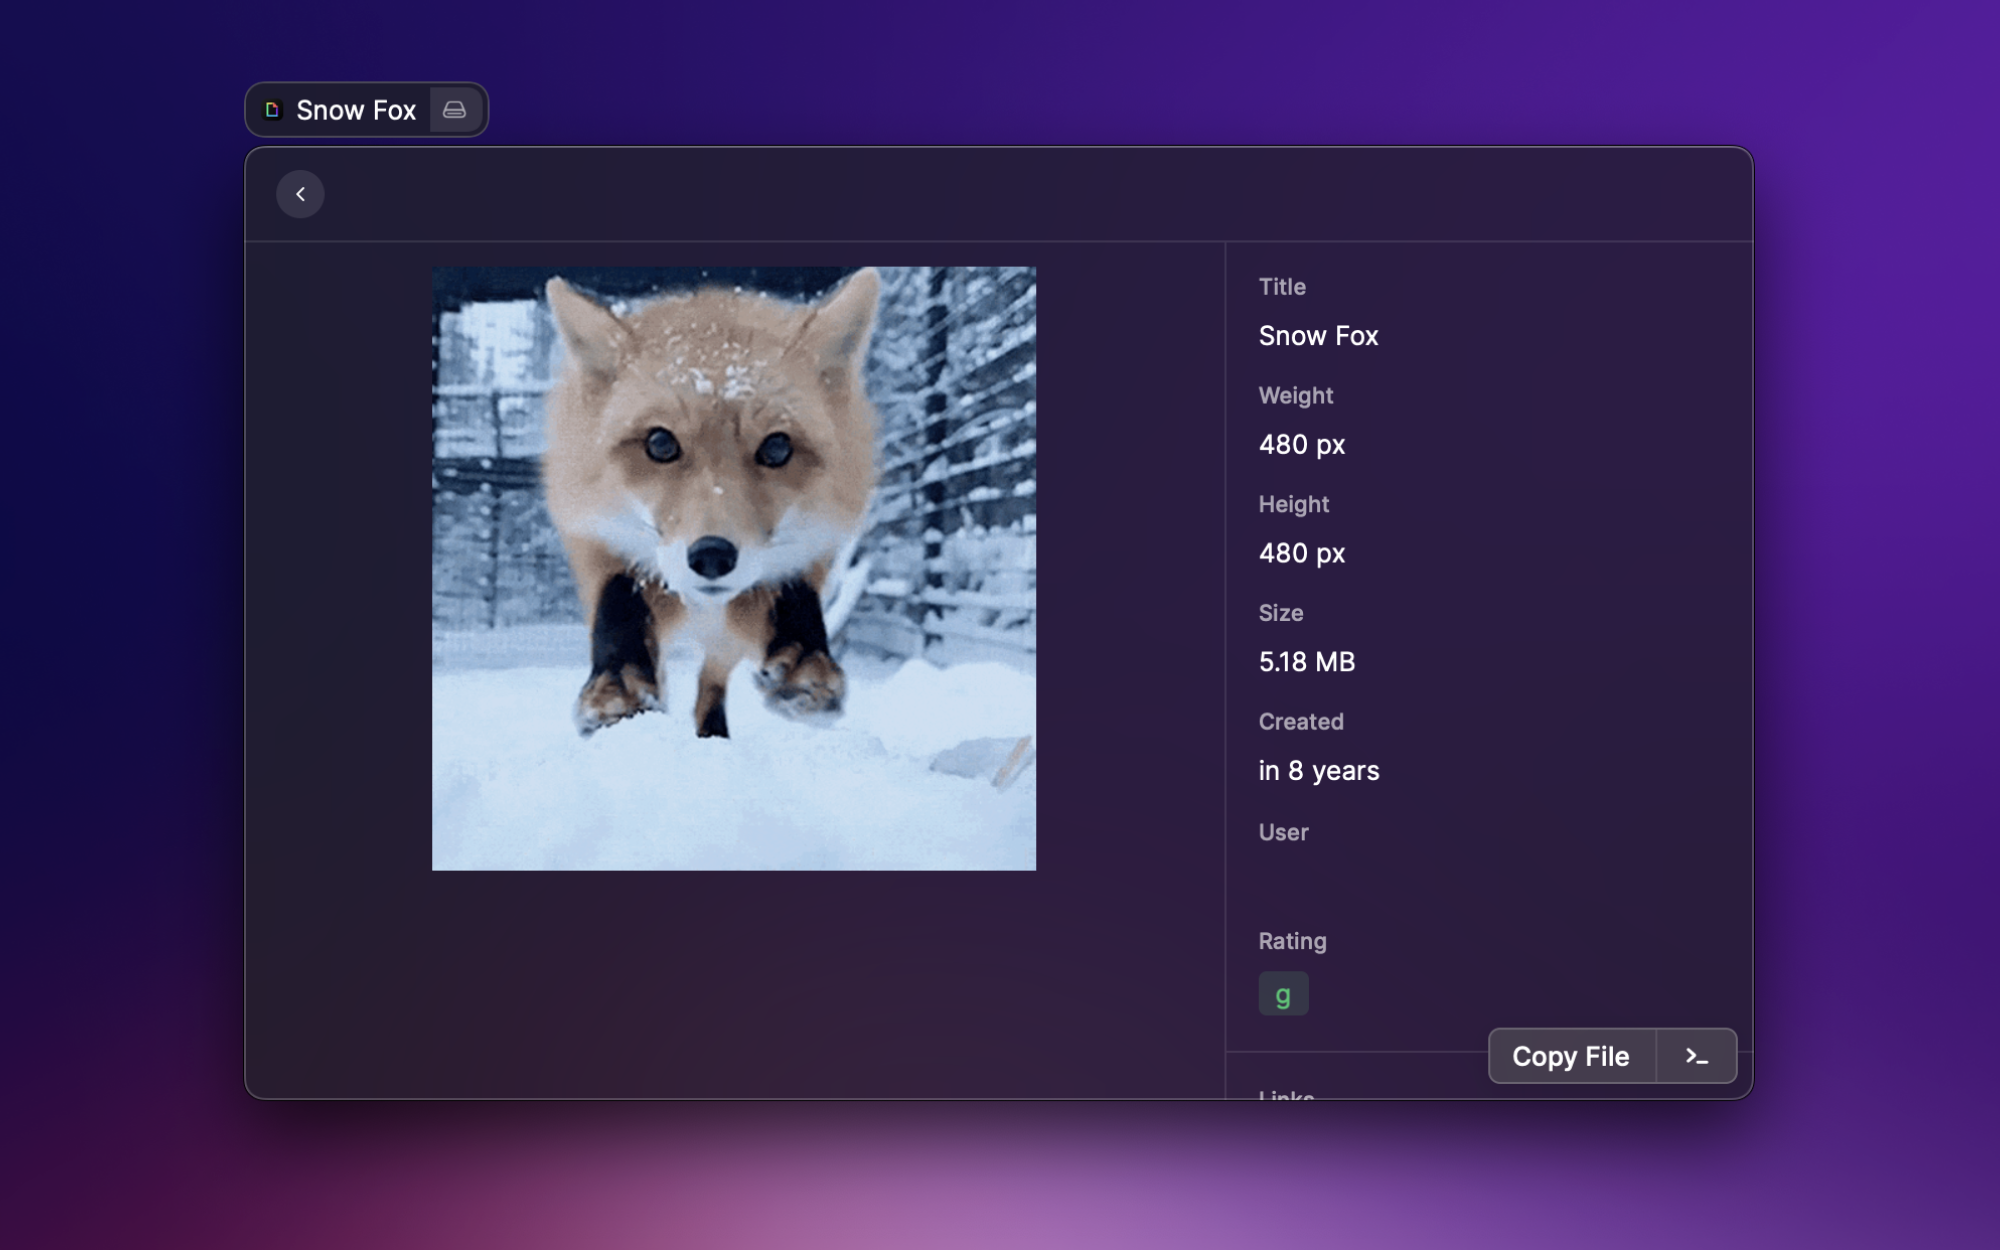
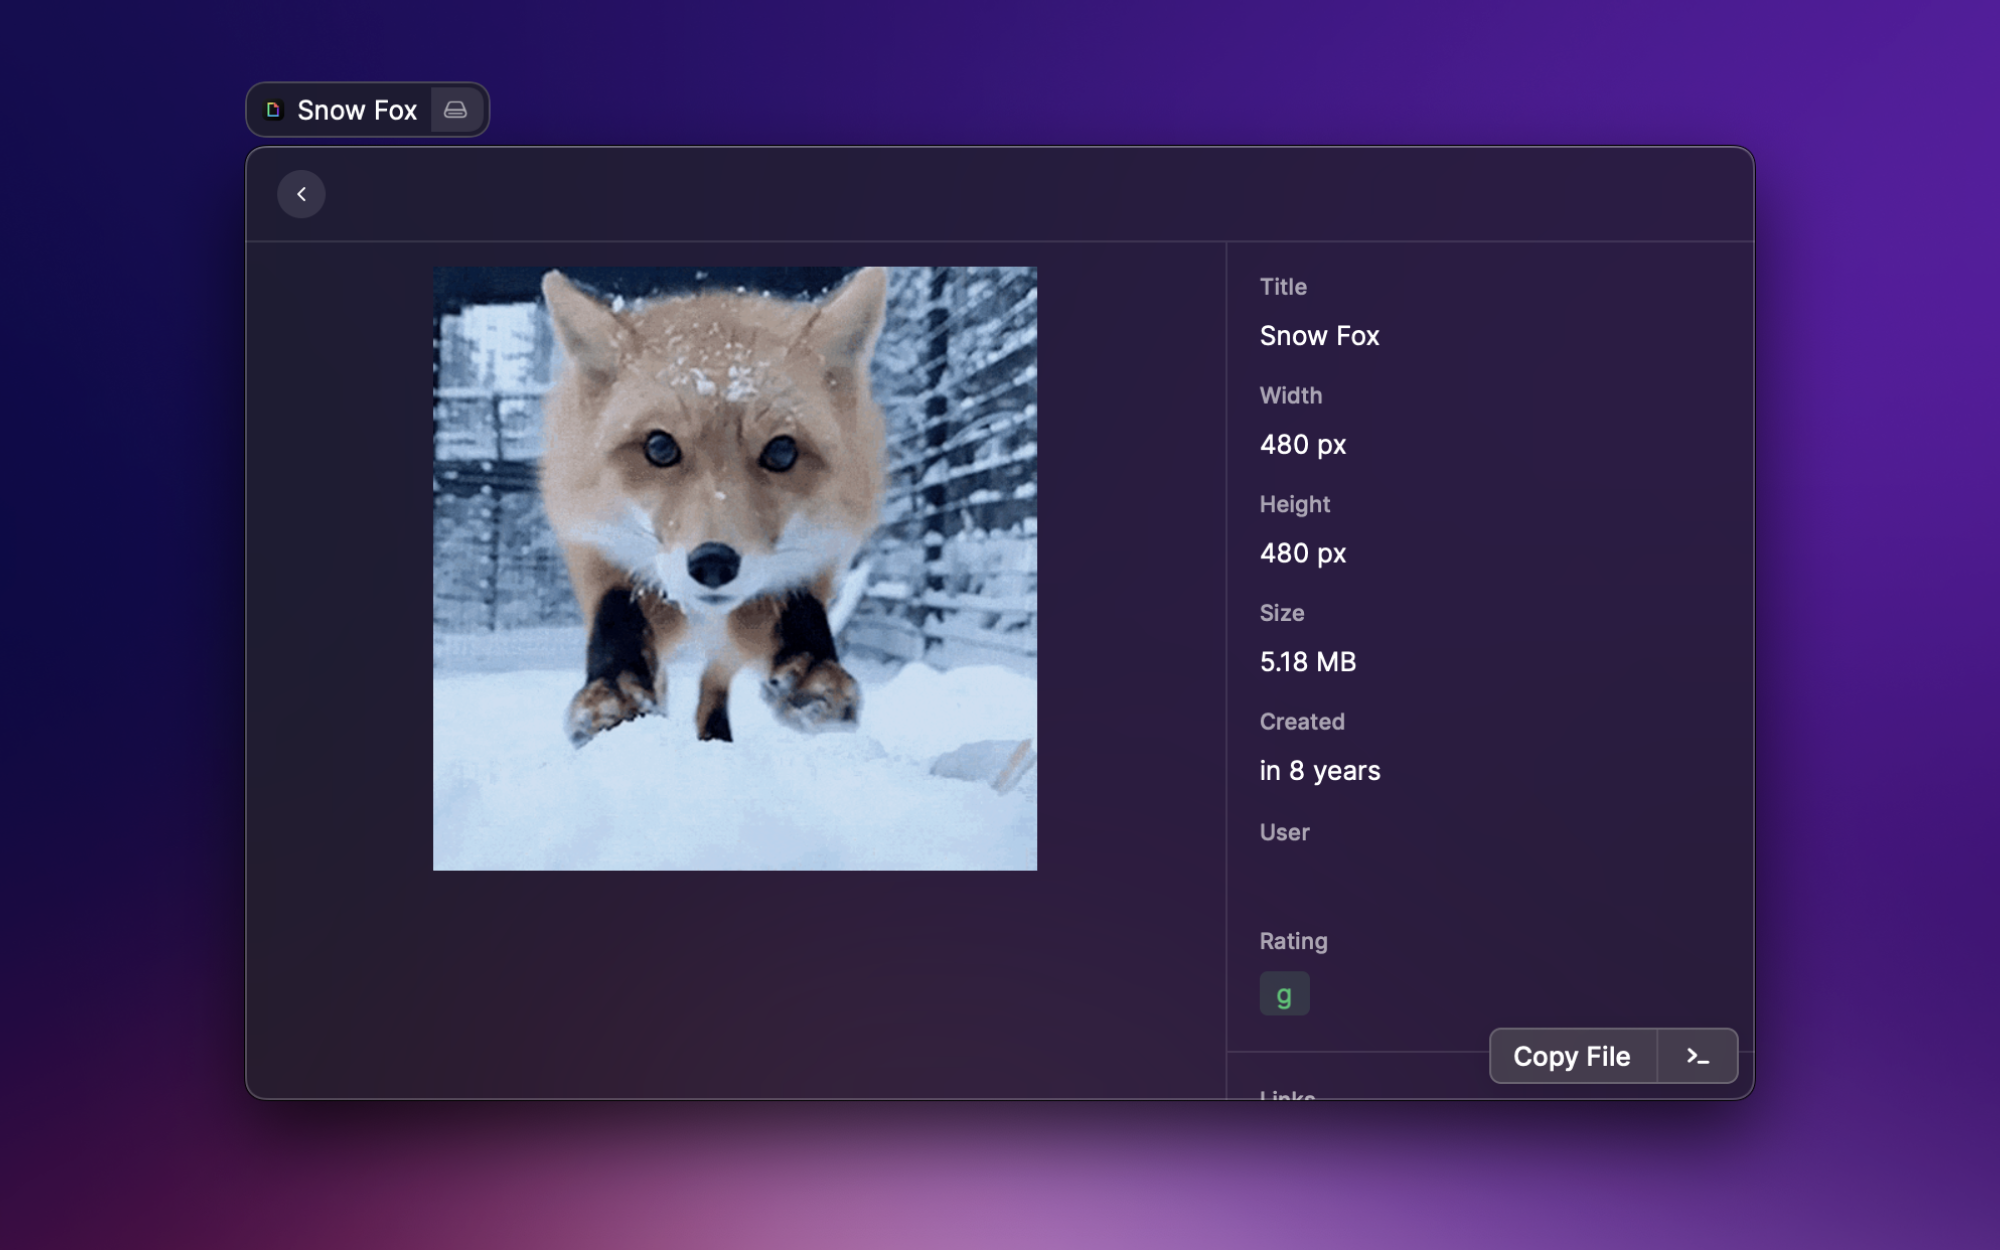
fix metadata

diff --git a/src/components/GIFDetails.tsx b/src/components/GIFDetails.tsx
@@ -25,7 +25,7 @@ function GIFDetails({ gif, onView }: GIFDetailsProps) {
       metadata={
         <Detail.Metadata>
           <Detail.Metadata.Label title="Title" text={normalizeTitle(gif.title)} />
-          <Detail.Metadata.Label title="Weight" text={`${gif.images.original.width} px`} />
+          <Detail.Metadata.Label title="Width" text={`${gif.images.original.width} px`} />
           <Detail.Metadata.Label title="Height" text={`${gif.images.original.height} px`} />
           <Detail.Metadata.Label title="Size" text={fileSize(Number(gif.images.original.size))} />
           <Detail.Metadata.Label title="Created" text={moment(gif.import_datetime, "DD-MM-YYYY").fromNow()} />
